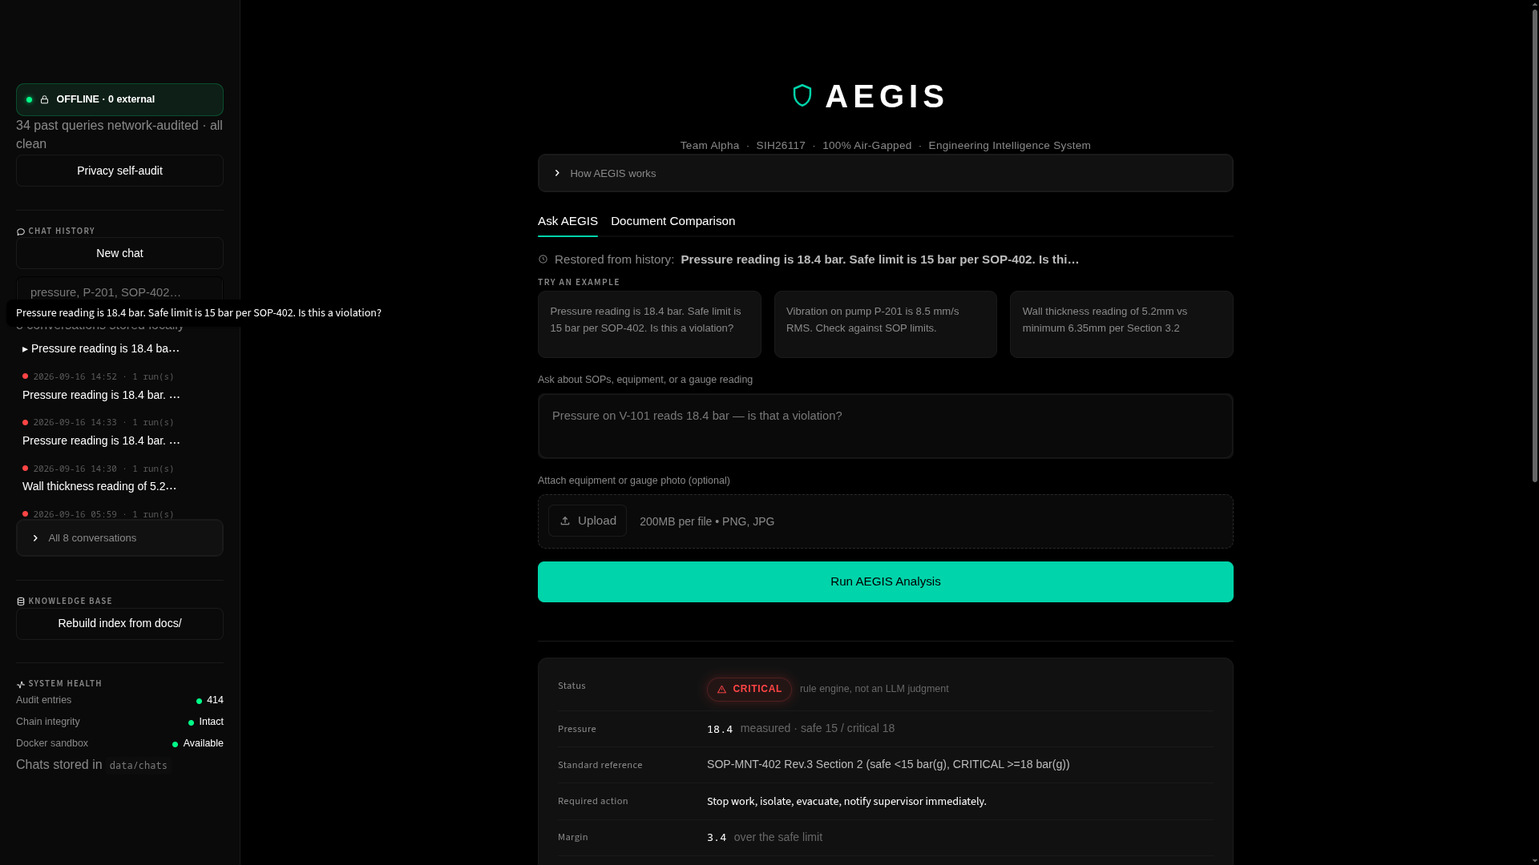
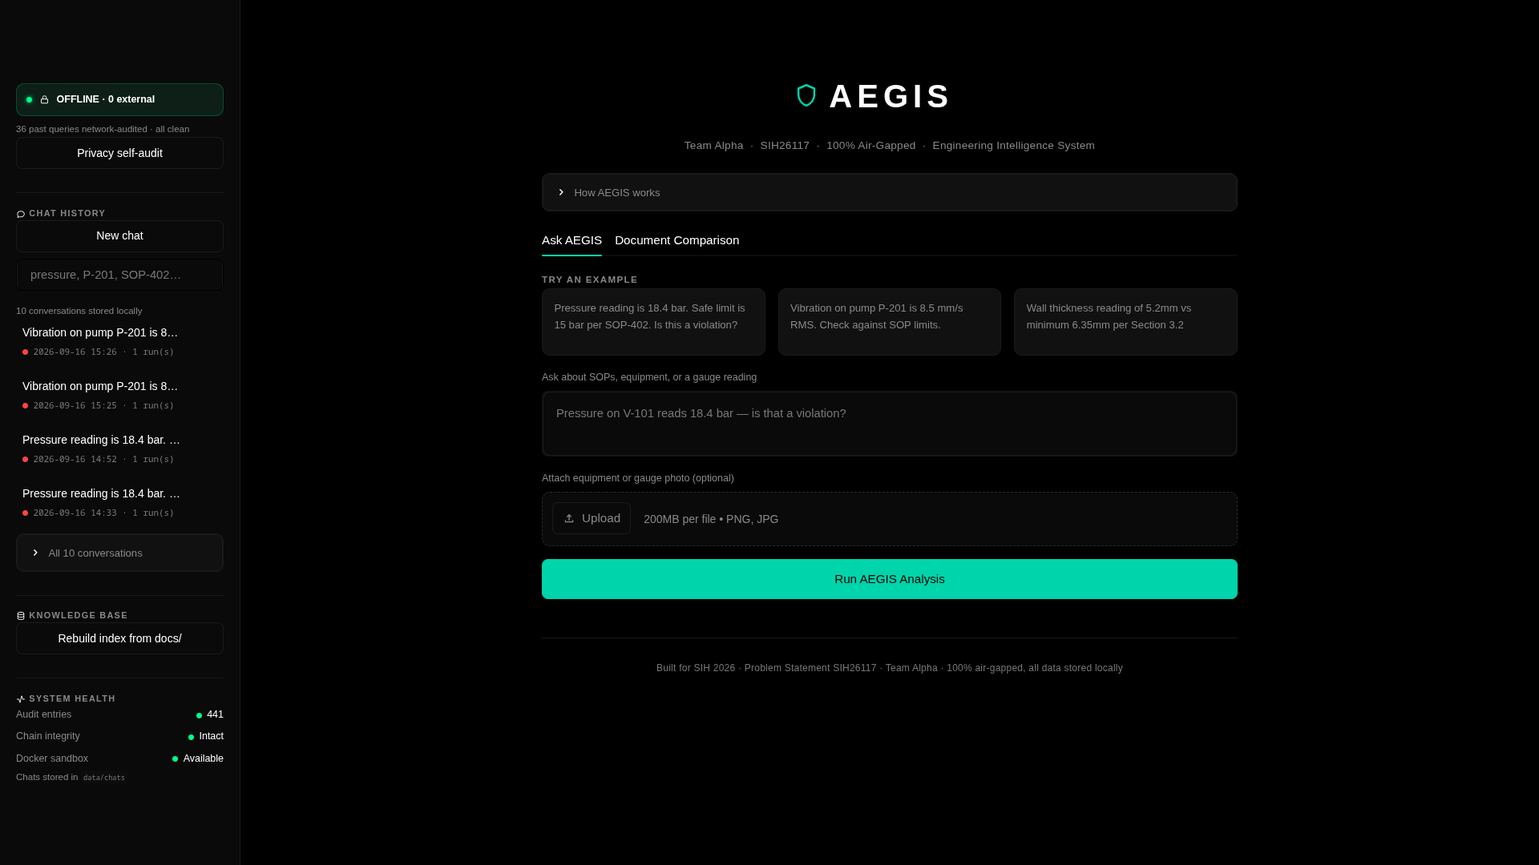
fix: close the redesign's brief gaps, and a blind spot in SOP change detection
Doc comparison accuracy (core/doc_diff.py). Tested against a realistic SOP
revision, the deterministic scan reported 1 safety-critical change while the LLM
assessment beside it called for MOC review on two. The console contradicted
itself, and the deterministic number is the one people trust.
- Inspection frequencies now count as limits. "verified quarterly" -> "annually"
  relaxes an inspection interval exactly as 15 -> 17 bar relaxes a pressure
  limit, but had no limit word and no digit, so it was never flagged, and could
  never have scored HIGH (risk keyed on changed numbers only).
- H2S / hydrogen sulfide controls are critical on their own.
- A section heading that names the topic is the section's label, not a second
  change; it was double-counting added sections.
Same revision pair now: 3 flags (HIGH, HIGH, MEDIUM), agreeing with the LLM.
Self-check assertions were written first and failed before each fix.

Brief gaps in the console (ui/app.py):
- Run locks: a click records the request and reruns, so the next pass renders
  the button disabled as "Processing...". Examples and the query box lock too,
  because any widget click restarts a Streamlit script and would silently abort
  an in-flight agent run. Errors stash and rerun so the lock never sticks.
- Uploaded photo previews before the run.
- Sign-off records the local time, shown and written to the audit log. An empty
  name now warns instead of silently ignoring the click.
[…]

diff --git a/ui/app.py b/ui/app.py
@@ -6,12 +6,14 @@ structured verdict card reads `result["safety"]` / `result["safety_input"]`
 rather than parsing the answer prose.
 """
 import html
+import json
 import os
 import re
 import shutil
 import subprocess
 import sys
 import tempfile
+from datetime import datetime
 
 # `streamlit run ui/app.py` puts this file's own directory on sys.path, not the
 # project root, so the `core` package import below fails unless we add it back.
@@ -157,7 +159,9 @@ html, body, [data-testid="stApp"] {{ background: var(--bg); }}
    upload glyphs as Material Symbols ligatures, so forcing a text font onto them
    prints the literal ligature name ("keyboard_arrow_right") on screen. */
 [data-testid="stApp"], [data-testid="stApp"] p, [data-testid="stApp"] li,
-[data-testid="stApp"] label,
+[data-testid="stApp"] label, [data-testid="stMarkdownContainer"],
+[data-testid="stMarkdownContainer"] div, [data-testid="stApp"] button,
+[data-testid="stApp"] input, [data-testid="stApp"] textarea,
 [data-testid="stApp"] span:not([data-testid="stIconMaterial"]) {{ font-family: var(--font); }}
 
 [data-testid="stMainBlockContainer"] {{
@@ -183,7 +187,7 @@ html, body, [data-testid="stApp"] {{ background: var(--bg); }}
 }}
 
 /* ── typography ── */
-.hero {{ text-align: center; padding: .5rem 0 0; }}
+.hero {{ text-align: center; padding: .5rem 0 1.5rem; }}
 .hero-mark {{ display: inline-flex; align-items: center; gap: .7rem; color: var(--text); }}
 .hero-mark svg {{ width: 34px; height: 34px; color: var(--accent); }}
 .hero h1 {{
@@ -236,7 +240,12 @@ code, kbd, .mono {{ font-family: var(--mono) !important; font-size: .82rem; }}
 .offline .dot {{ background: var(--ok); box-shadow: 0 0 6px var(--ok); }}
 .offline.leak {{ background: #1F0D0D; border-color: #FF444455; color: var(--crit); }}
 .offline.leak .dot {{ background: var(--crit); box-shadow: 0 0 6px var(--crit); }}
-.sb-note {{ font-size: .72rem; color: var(--text-dim); margin: .5rem 0 .55rem; line-height: 1.45; }}
+/* Scoped through stMarkdownContainer on purpose: Streamlit sizes markdown <p> with
+   an emotion rule of equal-or-higher weight than a bare class, so `.sb-note`
+   alone rendered at full body size. Same for `.foot` below. */
+[data-testid="stMarkdownContainer"] p.sb-note {{
+  font-size: .72rem; color: var(--text-dim); margin: .5rem 0 .55rem; line-height: 1.45;
+}}
 /* Streamlit gives a markdown block no outer margin, so sidebar rhythm comes from
    the note's own margins plus the vertical-block gap — not from empty spacers. */
 [data-testid="stSidebar"] [data-testid="stMarkdown"] {{ margin-bottom: 0; }}
@@ -340,7 +349,25 @@ code, kbd, .mono {{ font-family: var(--mono) !important; font-size: .82rem; }}
   display: inline-block; padding: .1rem .45rem; border-radius: 5px;
   font-size: .68rem; font-weight: 600; letter-spacing: .04em; margin-right: .5rem;
 }}
-.chain .h {{ font-family: var(--mono); font-size: .72rem; color: #5A5A5A; }}
+.chain .h {{ font-family: var(--mono); font-size: .72rem; color: #777; }}
+.chain .ts {{ font-family: var(--mono); font-size: .72rem; color: #999; margin-right: .6rem; }}
+.chain details {{ margin: .3rem 0 .1rem; }}
+.chain summary {{
+  cursor: pointer; font-size: .7rem; color: #777; list-style: none; display: inline-flex;
+  align-items: center; gap: .3rem; transition: color .2s var(--ease);
+}}
+.chain summary::-webkit-details-marker {{ display: none; }}
+.chain summary::before {{ content: "›"; display: inline-block; transition: transform .2s var(--ease); }}
+.chain details[open] summary::before {{ transform: rotate(90deg); }}
+.chain summary:hover {{ color: var(--accent); }}
+.chain pre {{
+  margin: .35rem 0 0; padding: .6rem .7rem; max-height: 220px; overflow: auto;
+  font-family: var(--mono); font-size: .72rem; line-height: 1.5; color: #BBB;
+  white-space: pre-wrap; word-break: break-word;
+}}
+.signed {{ animation: signedFlash .9s var(--ease); }}
+@keyframes signedFlash {{ 0% {{ background: #00FF8833; }} 100% {{ background: #00FF880A; }} }}
+.thumb {{ display: flex; align-items: center; gap: .75rem; font-size: .8rem; color: var(--text-dim); }}
 
 /* ── diff ── */
 .diff {{
@@ -404,6 +431,10 @@ code, kbd, .mono {{ font-family: var(--mono) !important; font-size: .82rem; }}
   transform: translateY(-1px);
 }}
 [class*="st-key-ex_"] .stButton button p {{ font-size: .82rem !important; }}
+[class*="st-key-ex_"] .stButton button:disabled {{
+  opacity: .4; transform: none; box-shadow: none; border-color: var(--border);
+  color: var(--text-dim); cursor: not-allowed;
+}}
 
 /* Chat history rows: delete reveals on hover, and on keyboard focus so it stays
    reachable without a pointer. */
@@ -427,9 +458,17 @@ code, kbd, .mono {{ font-family: var(--mono) !important; font-size: .82rem; }}
 [class*="st-key-del_"] .stButton button:focus-visible {{ opacity: 1; }}
 [class*="st-key-del_"] .stButton button:hover {{ color: var(--crit); }}
 .chat-meta {{
-  font-size: .68rem; color: #5A5A5A; font-family: var(--mono);
-  padding: 0 .5rem .3rem; display: flex; align-items: center; gap: .4rem;
+  font-size: .68rem; color: #7A7A7A; font-family: var(--mono);
+  padding: 0 .5rem; display: flex; align-items: center; gap: .4rem;
 }}
+/* Title and its timestamp are one unit: tight inside the row, separated between
+   rows. With the sidebar's default gap the timestamp sat closer to the NEXT
+   chat's title than to its own. */
+[data-testid="stSidebar"] [class*="st-key-chatrow_"] {{ gap: 0; padding: .1rem 0 .55rem; }}
+/* Streamlit gives every markdown container margin-bottom:-1rem, which cancels the
+   17px meta line to a 0-height box that overflows into the next row. Zeroed here
+   so the row actually contains its own timestamp. */
+[data-testid="stSidebar"] [class*="st-key-chatrow_"] [data-testid="stMarkdownContainer"] {{ margin: -.1rem 0 0; }}
 
 /* ── inputs ── */
 [data-testid="stTextArea"] textarea, [data-testid="stTextInput"] input {{
@@ -516,9 +555,34 @@ code, kbd, .mono {{ font-family: var(--mono) !important; font-size: .82rem; }}
 ::-webkit-scrollbar-thumb {{ background: #222; border-radius: 4px; }}
 ::-webkit-scrollbar-thumb:hover {{ background: #333; }}
 
-.foot {{
-  text-align: center; font-size: .75rem; color: #444; padding: .5rem 0 0;
+/* #777 not the brief's #444: #444 on black is 2.3:1, and #5A5A5A meta text is
+   2.9:1 — both below the 4.5:1 floor for text an operator actually reads. */
+/* LLM summary card. Scoped with the testid so it can only ever match the keyed
+   container, never an element that happens to share the key text. */
+[data-testid="stVerticalBlock"].st-key-diff_summary {{
+  background: var(--surface); border: 1px solid var(--border); border-radius: 12px;
+  padding: 1.25rem 1.5rem;
+}}
+.st-key-diff_summary h1, .st-key-diff_summary h2, .st-key-diff_summary h3,
+.st-key-diff_summary h4 {{
+  font-size: .95rem !important; font-weight: 600; letter-spacing: 0;
+  margin: 1rem 0 .4rem !important; padding: 0 !important; color: var(--text);
+}}
+.st-key-diff_summary h1:first-child, .st-key-diff_summary h2:first-child,
+.st-key-diff_summary h3:first-child {{ margin-top: 0 !important; }}
+.st-key-diff_summary li, .st-key-diff_summary p {{ font-size: .88rem !important; color: #CCC; }}
+.st-key-diff_summary strong {{ color: var(--text); }}
+[data-testid="stMarkdownContainer"] p.foot {{
+  text-align: center; font-size: .75rem; color: #777; padding: .5rem 0 0;
   letter-spacing: .02em;
+}}
+
+/* Data, not decoration, gets the mono face: hashes, timestamps, timings, readings.
+   :is() takes its most specific argument, so this (0,3,0) beats the global font
+   rule's span selector (0,2,1) that was silently turning all of these sans. */
+[data-testid="stApp"] :is(.mono, code, .ttotal, .chat-meta, .chain .h, .chain .ts,
+  .track-status .el, .track .step .t, .tlegend b, .row .v .num, .chain pre) {{
+  font-family: var(--mono);
 }}
 
 @media (prefers-reduced-motion: reduce) {{
@@ -1006,6 +1070,11 @@ with st.expander("How AEGIS works"):
 tab_ask, tab_compare = st.tabs(["Ask AEGIS", "Document Comparison"])
 
 with tab_ask:
+    # Read first: while a run is in flight every input on this tab is locked, not
+    # just the button. Any widget interaction restarts a Streamlit script, so a
+    # stray click on an example card mid-run would silently abort the agent.
+    pending = st.session_state.get("pending_run")
+
     if st.session_state.get("restored_from"):
         st.markdown(
             f'<p class="sb-note" style="display:flex;align-items:center;gap:.5rem;margin-bottom:.2rem">'
@@ -1017,16 +1086,39 @@ with tab_ask:
     st.markdown('<div class="sec-head">Try an example</div>', unsafe_allow_html=True)
     for i, (col, ex) in enumerate(zip(st.columns(len(EXAMPLES), gap="small"), EXAMPLES)):
         with col.container(key=f"ex_{i}"):
-            if st.button(ex, key=f"exbtn_{i}", help=ex, use_container_width=True):
+            if st.button(ex, key=f"exbtn_{i}", help=ex, use_container_width=True,
+                         disabled=bool(pending)):
                 st.session_state["query_input"] = ex
 
     query = st.text_area(
         "Ask about SOPs, equipment, or a gauge reading", height=110, key="query_input",
         placeholder="Pressure on V-101 reads 18.4 bar — is that a violation?",
+        disabled=bool(pending),
     )
     img = st.file_uploader("Attach equipment or gauge photo (optional)", type=["png", "jpg", "jpeg"])
+    if img:
+        # Preview before the run, so the operator confirms it's the right photo
+        # before spending a minute of vision time on it. Streamlit's uploader row
+        # above already carries the filename and the remove control.
+        try:
+            st.image(img, width=160)
+        except Exception:
+            st.caption("Preview unavailable — the file may be corrupt; AEGIS will skip it if unreadable.")
 
-    run_clicked = st.button("Run AEGIS Analysis", type="primary", use_container_width=True, key="run")
+    # Two-pass run so the button can lock. Streamlit can't restyle a widget that
+    # already rendered during this pass, so a click only records the request and
+    # reruns; the next pass renders the button disabled as "Processing…" and does
+    # the work. A second click during a 60s run can't queue a duplicate query.
+    run_clicked = st.button(
+        "Processing…" if pending else "Run AEGIS Analysis",
+        type="primary", use_container_width=True, key="run", disabled=bool(pending),
+    )
+
+    run_error = st.session_state.pop("run_error", None)
+    if run_error:
+        st.error(run_error["message"])
+        with st.expander("Technical detail (for support)"):
+            st.code(run_error["detail"], language=None)
 
     if run_clicked and not query.strip():
         st.warning("Type a question first, or pick one of the examples above.")
@@ -1039,14 +1131,20 @@ with tab_ask:
             "retrieve from it instead."
         )
     elif run_clicked:
+        st.session_state["pending_run"] = {"query": query}
+        st.rerun()
+    elif pending:
+        # Popped before running, not after: if the agent raises, the lock must not
+        # outlive the run and leave the button stuck on "Processing…".
+        st.session_state.pop("pending_run", None)
+        query = pending["query"]
         image_path = None
         if img:
             try:
                 tmp = tempfile.NamedTemporaryFile(delete=False, suffix=os.path.splitext(img.name)[1])
-                tmp.write(img.read())
+                tmp.write(img.getvalue())
                 tmp.close()
                 image_path = tmp.name
-                st.image(img, width=300)
             except Exception as e:
                 # A corrupt or unreadable upload must not sink the text query.
                 st.warning(f"Could not read that image ({e}) — continuing without it.")
@@ -1080,10 +1178,12 @@ with tab_ask:
         except Exception as e:
             # Never show an operator a traceback — friendly_error ends in the exact
             # command that fixes it, and the raw detail stays available on demand.
-            tracker.empty()
-            st.error(agent.friendly_error(e))
-            with st.expander("Technical detail (for support)"):
-                st.exception(e)
+            # Stashed and rerun so the button unlocks; shown at the top of that pass.
+            st.session_state["run_error"] = {
+                "message": agent.friendly_error(e),
+                "detail": f"{type(e).__name__}: {e}",
+            }
+            st.rerun()
 
         if result:
             st.session_state["result"] = result
@@ -1123,11 +1223,13 @@ with tab_ask:
         if result.get("requires_approval"):
             if st.session_state.get("signed_off"):
                 st.markdown(
-                    f'<div class="card" style="border-color:#00FF8833;background:#00FF880A;'
+                    f'<div class="card signed" style="border-color:#00FF8833;background:#00FF880A;'
                     f'display:flex;align-items:center;gap:.7rem;padding:1rem 1.25rem">'
                     f'<span style="color:var(--ok);display:flex">{icon("check", 17)}</span>'
                     f'<span style="font-size:.9rem">Signed off by '
-                    f'<strong>{html.escape(st.session_state["approver"])}</strong></span></div>',
+                    f'<strong>{html.escape(st.session_state["approver"])}</strong> at '
+                    f'<span class="mono">{html.escape(st.session_state.get("signed_at", ""))}</span>'
+                    f"</span></div>",
                     unsafe_allow_html=True,
                 )
             else:
@@ -1141,11 +1243,18 @@ with tab_ask:
                 )
                 approver = st.text_input("Supervisor name", key="approver_input",
                                          placeholder="Name of the authorising supervisor")
-                if st.button("Authorize & sign off", key="signoff", type="primary") and approver.strip():
-                    audit.log("sign_off", {"query": result["query"], "approver": approver.strip()})
-                    st.session_state["approver"] = approver.strip()
-                    st.session_state["signed_off"] = True
-                    st.rerun()
+                if st.button("Authorize & sign off", key="signoff", type="primary"):
+                    if not approver.strip():
+                        # Silently ignoring the click read as a broken button.
+                        st.warning("Enter the supervisor's name — sign-off is recorded against a named person.")
+                    else:
+                        signed_at = datetime.now().strftime("%Y-%m-%d %H:%M")
+                        audit.log("sign_off", {"query": result["query"], "approver": approver.strip(),
+                                               "signed_at_local": signed_at})
+                        st.session_state["approver"] = approver.strip()
+                        st.session_state["signed_at"] = signed_at
+                        st.session_state["signed_off"] = True
+                        st.rerun()
 
         with st.expander("Reasoning trace"):
             for step in result.get("trace", []):
@@ -1179,13 +1288,25 @@ with tab_ask:
 
         entries = audit.read()[-20:]
         with st.expander(f"Audit trail · {n_entries} entries · chain {'intact' if ok_chain else 'TAMPERED'}"):
+            st.caption("Last 20 entries, newest last. Times are UTC, as written to the log.")
             rows = []
             for e in entries:
                 color = STEP_COLORS.get(e["event"], "#555")
+                payload = e.get("data")
+                try:
+                    body = json.dumps(payload, indent=2, default=str, ensure_ascii=False)
+                except (TypeError, ValueError):
+                    body = str(payload)
+                if len(body) > 2000:
+                    body = body[:2000] + "\n… (truncated — full entry in logs/audit.jsonl)"
+                # Native <details>: collapsed by default, keyboard-operable, and no
+                # widget per row — twenty st.expanders would each cost a rerun hop.
                 rows.append(
-                    f'<div class="e"><span class="badge" style="background:{color}1F;color:{color}">'
+                    f'<div class="e"><span class="ts">{html.escape(str(e.get("ts", ""))[11:19])}</span>'
+                    f'<span class="badge" style="background:{color}1F;color:{color}">'
                     f'{html.escape(e["event"])}</span>'
-                    f'<span class="h">{html.escape(e["hash"][:16])}… ← {html.escape(e["prev_hash"][:12])}…</span></div>'
+                    f'<span class="h">{html.escape(e["hash"][:16])}… ← {html.escape(e["prev_hash"][:12])}…</span>'
+                    f"<details><summary>data</summary><pre>{html.escape(body)}</pre></details></div>"
                 )
             st.markdown(f'<div class="chain">{"".join(rows)}</div>', unsafe_allow_html=True)
 
@@ -1240,7 +1361,10 @@ with tab_compare:
 
         st.markdown('<div class="sec-head" style="margin-top:.5rem">Safety impact assessment</div>',
                     unsafe_allow_html=True)
-        st.markdown(report["summary"])
+        # LLM output arrives as free markdown with its own H1/H2s; contained and
+        # scaled so a model's "# Summary" can't outrank the console's own headings.
+        with st.container(key="diff_summary"):
+            st.markdown(report["summary"])
 
         if report["safety_critical_changes"]:
             st.markdown('<div class="sec-head" style="margin-top:.5rem">Flagged changes '

diff --git a/core/doc_diff.py b/core/doc_diff.py
@@ -70,9 +70,15 @@ def diff_documents(old_path: str, new_path: str) -> dict:
 # shutdown/trip/SIL concept outright, or pairs a measured quantity with a limit
 # word. ponytail: keyword heuristic, not a parser — it over-flags rather than
 # under-flags on purpose; swap for a tagged-SOP schema if plants start supplying one.
-_STANDALONE = r"\bsil\s*-?\s*[0-4]\b|\bshutdown\b|\btrip\b|\bemergency\b|\bisolat"
+_STANDALONE = (r"\bsil\s*-?\s*[0-4]\b|\bshutdown\b|\btrip\b|\bemergency\b|\bisolat"
+               r"|\bh2s\b|\bhydrogen\s+sulfide\b")
 _SAFETY_TOPICS = r"\b(pressure|temperature|temp|vibration|thickness|flow|level|psi|bar|°c|deg\s*c|mm/s|mm)\b"
-_LIMIT_WORDS = r"\b(limit|max|maximum|min|minimum|setpoint|set\s*point|threshold|alarm|interval|allowable|rating)\b"
+# Frequency words count as limits: "verified quarterly" -> "annually" relaxes an
+# inspection interval exactly as 15 -> 17 bar relaxes a pressure limit, but has no
+# digit in it, so the number-only checks below missed it entirely.
+_FREQUENCY = r"daily|weekly|fortnightly|monthly|quarterly|annually|annual|yearly|biennially|biennial"
+_LIMIT_WORDS = (r"\b(limit|max|maximum|min|minimum|setpoint|set\s*point|threshold|alarm|interval"
+                rf"|allowable|rating|frequency|{_FREQUENCY})\b")
 
 
 def _is_safety_critical(text: str) -> bool:
@@ -83,7 +89,9 @@ def _is_safety_critical(text: str) -> bool:
 
 
 def _numbers(text: str) -> list[str]:
-    return re.findall(r"\d+(?:\.\d+)?", text)
+    """The quantities on a line: numbers, plus inspection frequencies, which are
+    thresholds written as words."""
+    return re.findall(rf"\d+(?:\.\d+)?|\b(?:{_FREQUENCY})\b", text.lower())
 
 
 def _section_label(section: str) -> str:
@@ -92,7 +100,12 @@ def _section_label(section: str) -> str:
 
 
 def _critical_lines(section: str) -> list[str]:
-    return [ln.strip() for ln in section.splitlines() if ln.strip() and _is_safety_critical(ln)]
+    """Safety-critical body lines. The first line is the section's label (already
+    reported as `section`), so it's skipped when there's a body — otherwise a
+    heading like "H2S monitoring" double-counts its own section."""
+    lines = [ln.strip() for ln in section.splitlines() if ln.strip()]
+    body = lines[1:] or lines
+    return [ln for ln in body if _is_safety_critical(ln)]
 
 
 def _flag_modified(old: str, new: str) -> list[dict]:
@@ -215,6 +228,21 @@ if __name__ == "__main__":  # ponytail: self-check — a pure-diffing test, no L
     assert any(f["old_value"].endswith("15 bar.") and f["new_value"].endswith("12 bar.")
                for f in high), report["safety_critical_changes"]
     assert not _is_safety_critical("Unrelated text.")
+
+    # Relaxing an inspection interval is a threshold move even with no digits in it.
+    insp_old = "Wall thickness must be verified quarterly by ultrasonic testing."
+    insp_new = "Wall thickness must be verified annually by ultrasonic testing."
+    assert _is_safety_critical(insp_old)
+    insp = _flag_modified("Section 3 Inspection\n" + insp_old, "Section 3 Inspection\n" + insp_new)
+    assert [f["risk_level"] for f in insp] == ["HIGH"], insp
+    # Toxic-gas controls are safety-critical on their own, with no limit word needed.
+    assert _is_safety_critical("Personal H2S monitors are mandatory within 10 m of the vessel.")
+    assert not _is_safety_critical("Keep walkways clear of hoses and loose tools.")
+    # A heading that merely names the topic is the section label, not a second change.
+    assert _critical_lines("Section 5 H2S monitoring\nPersonal H2S monitors are mandatory.") == [
+        "Personal H2S monitors are mandatory."]
+    # ...but a one-line section is all body, and must still be flagged.
+    assert _critical_lines("Trip the pump on high vibration.") == ["Trip the pump on high vibration."]
 
     os.remove(old)
     os.remove(new)

diff --git a/README.md b/README.md
@@ -383,7 +383,7 @@ never truncated and re-chained — that needs an external anchor.
 - Vision (`qwen2.5vl:3b`) returns a text description, not structured defect bounding boxes. It reliably reads gauge/digital displays and P&ID/drawing text, but analog-needle *angle* estimation is approximate (it reads the dial numbers correctly but can misjudge exactly where the needle points). On a 4GB GPU the VL model offloads partly to CPU, so image queries run slower (~20–50s of vision time) than text-only ones.
 - Single-user, single-process — no RBAC/multi-tenant plant-DMZ deployment yet.
 - `safety_rules.py`'s vibration/wall-thickness checkers are generic threshold evaluators, not preloaded with ISO 10816-3 (or any other) table values — limits must come from the query, retrieved SOP text, or your own `config/safety_limits.json`, so the system never asserts an unverified regulatory number as fact.
-- `core/doc_diff.py` splits documents into sections on blank lines and pairs revisions by text similarity (stdlib `difflib`); its safety-critical flagging is a keyword heuristic that deliberately over-flags. Works well on prose-style SOPs, untested on structured P&ID exports.
+- `core/doc_diff.py` splits documents into sections on blank lines and pairs revisions by text similarity (stdlib `difflib`); its safety-critical flagging is a keyword heuristic that deliberately over-flags. It treats inspection frequencies (quarterly → annually) as thresholds just like numeric limits, and H2S controls as critical on their own. It does not flag housekeeping or procedural removals with no limit in them — the LLM safety assessment covers those. Works well on prose-style SOPs, untested on structured P&ID exports.
 - The audit log is tamper-*evident*, not tamper-proof (see FAQ).
 - The Windows installers have now been run end-to-end on real Windows 11 / PowerShell 5.1 (`install.ps1` through all 10 steps, `run.ps1` through the app serving a full query and the privacy self-audit). That run caught and fixed three Windows-only bugs that line-review alone had missed: a non-ASCII character in a BOM-less `.ps1` got misdecoded by PowerShell 5.1's codepage-based file reading and broke string parsing (fixed by adding a UTF-8 BOM to both `.ps1` files); a multi-line Python snippet passed via `python -c` got truncated by PowerShell's native-argument quoting (fixed by writing it to a temp `.py` file and setting `PYTHONPATH` instead, since a script file's own directory — not the caller's cwd — lands on `sys.path[0]`); and the `Remove-Item` cmdlet itself failed to resolve a `%TEMP%` path built on an 8.3 short name on this machine (fixed with `[System.IO.File]::Delete`). macOS remains reviewed-but-unexecuted; a real portability bug was fixed there too (`readlink -f` doesn't exist on stock/BSD `readlink`, so `install.sh`/`run.sh` used a `dirname`+`pwd` idiom instead) but nobody has run it on an actual Mac.
 
